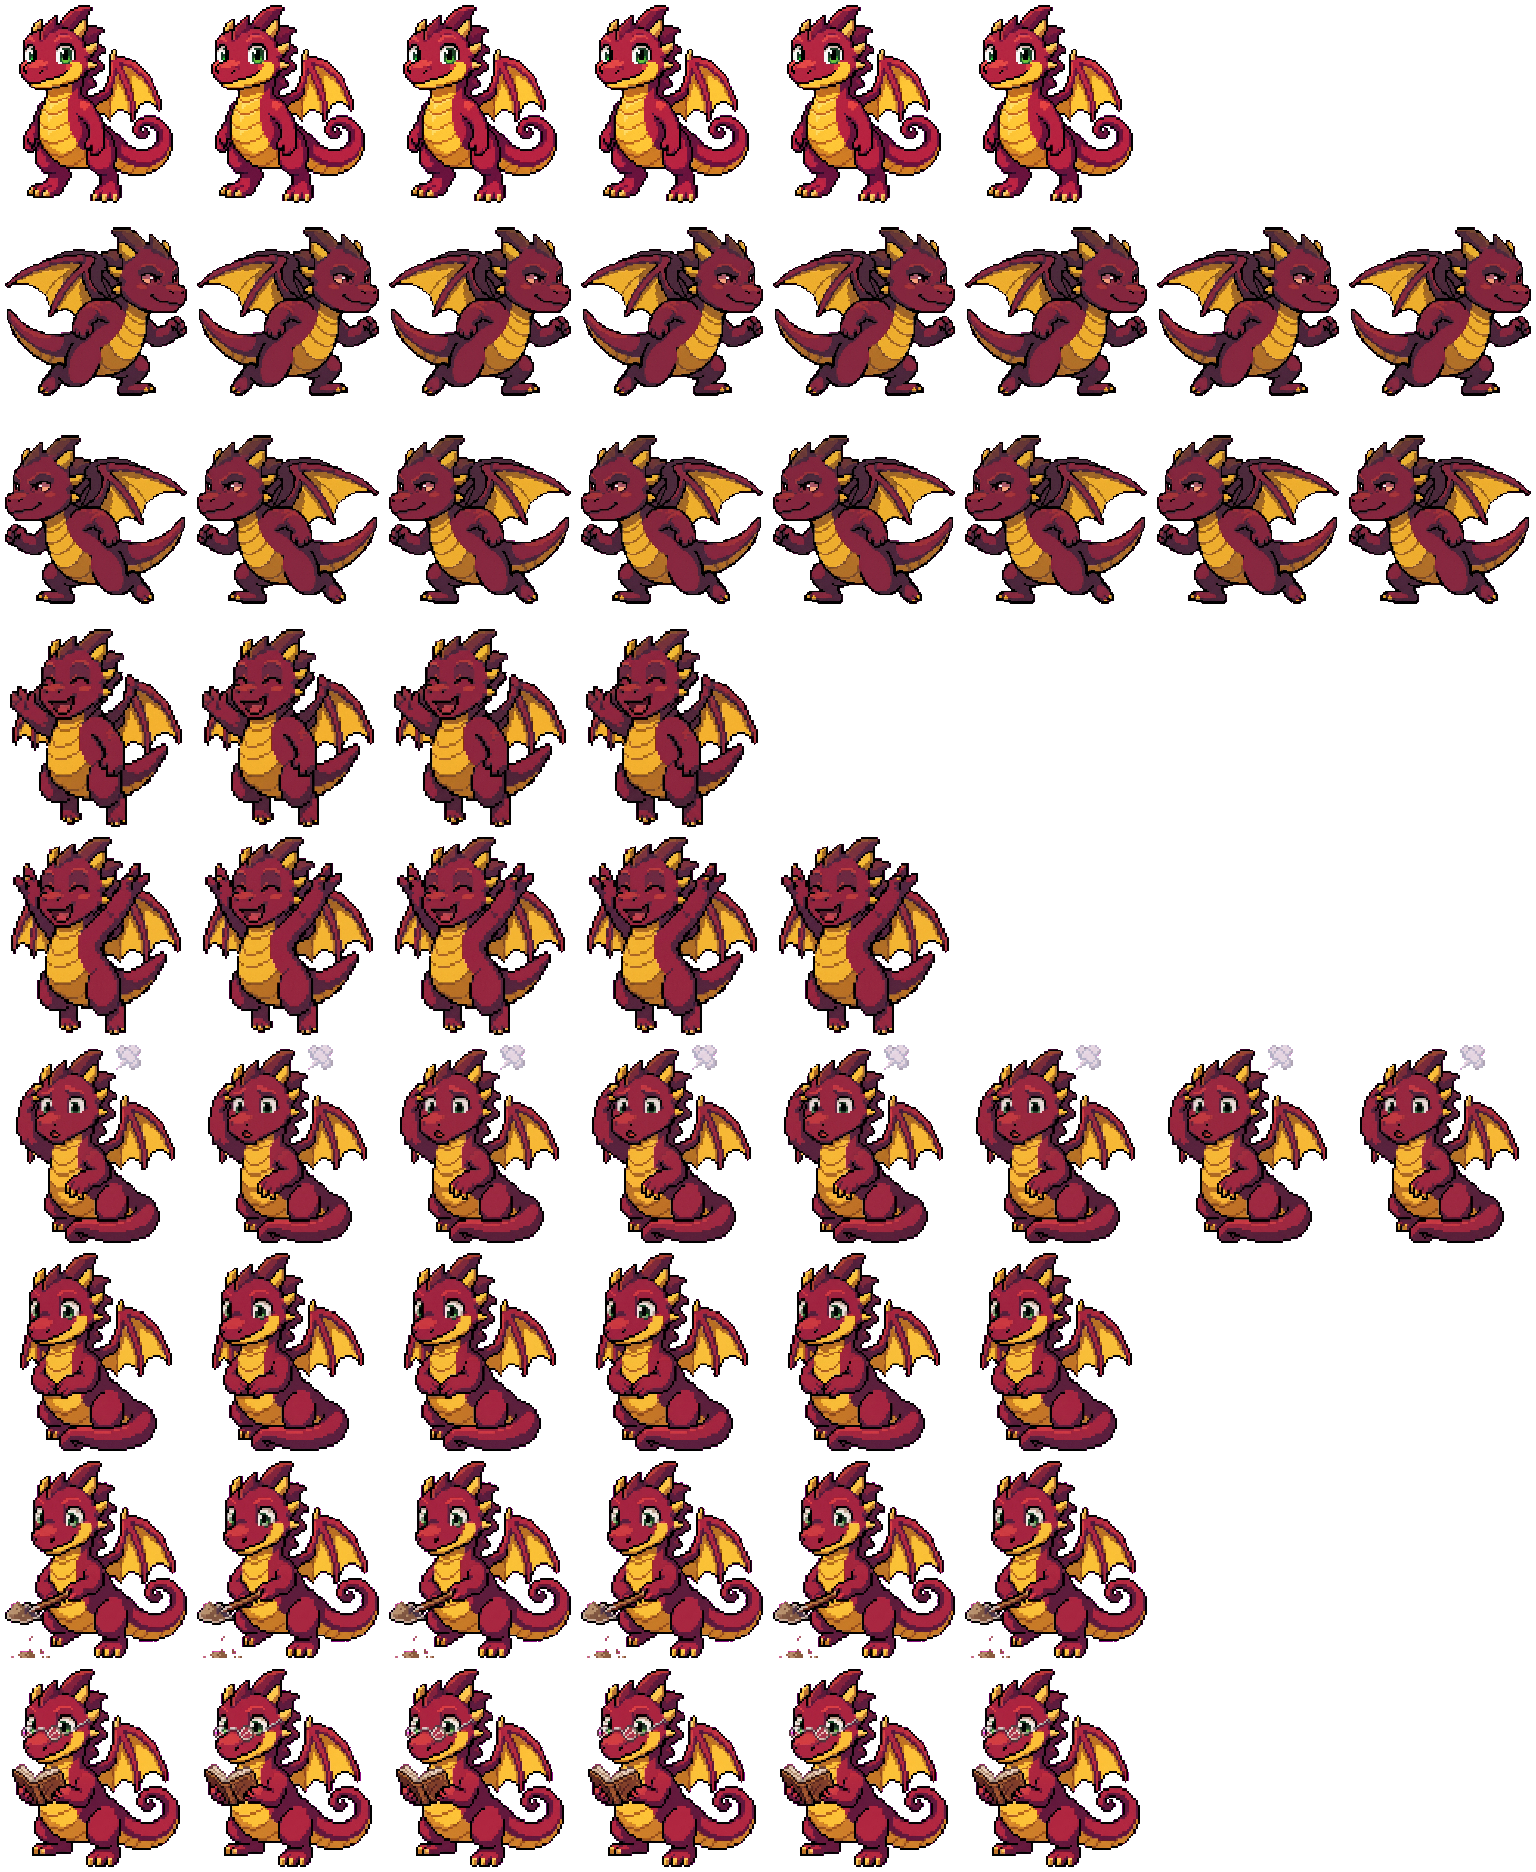
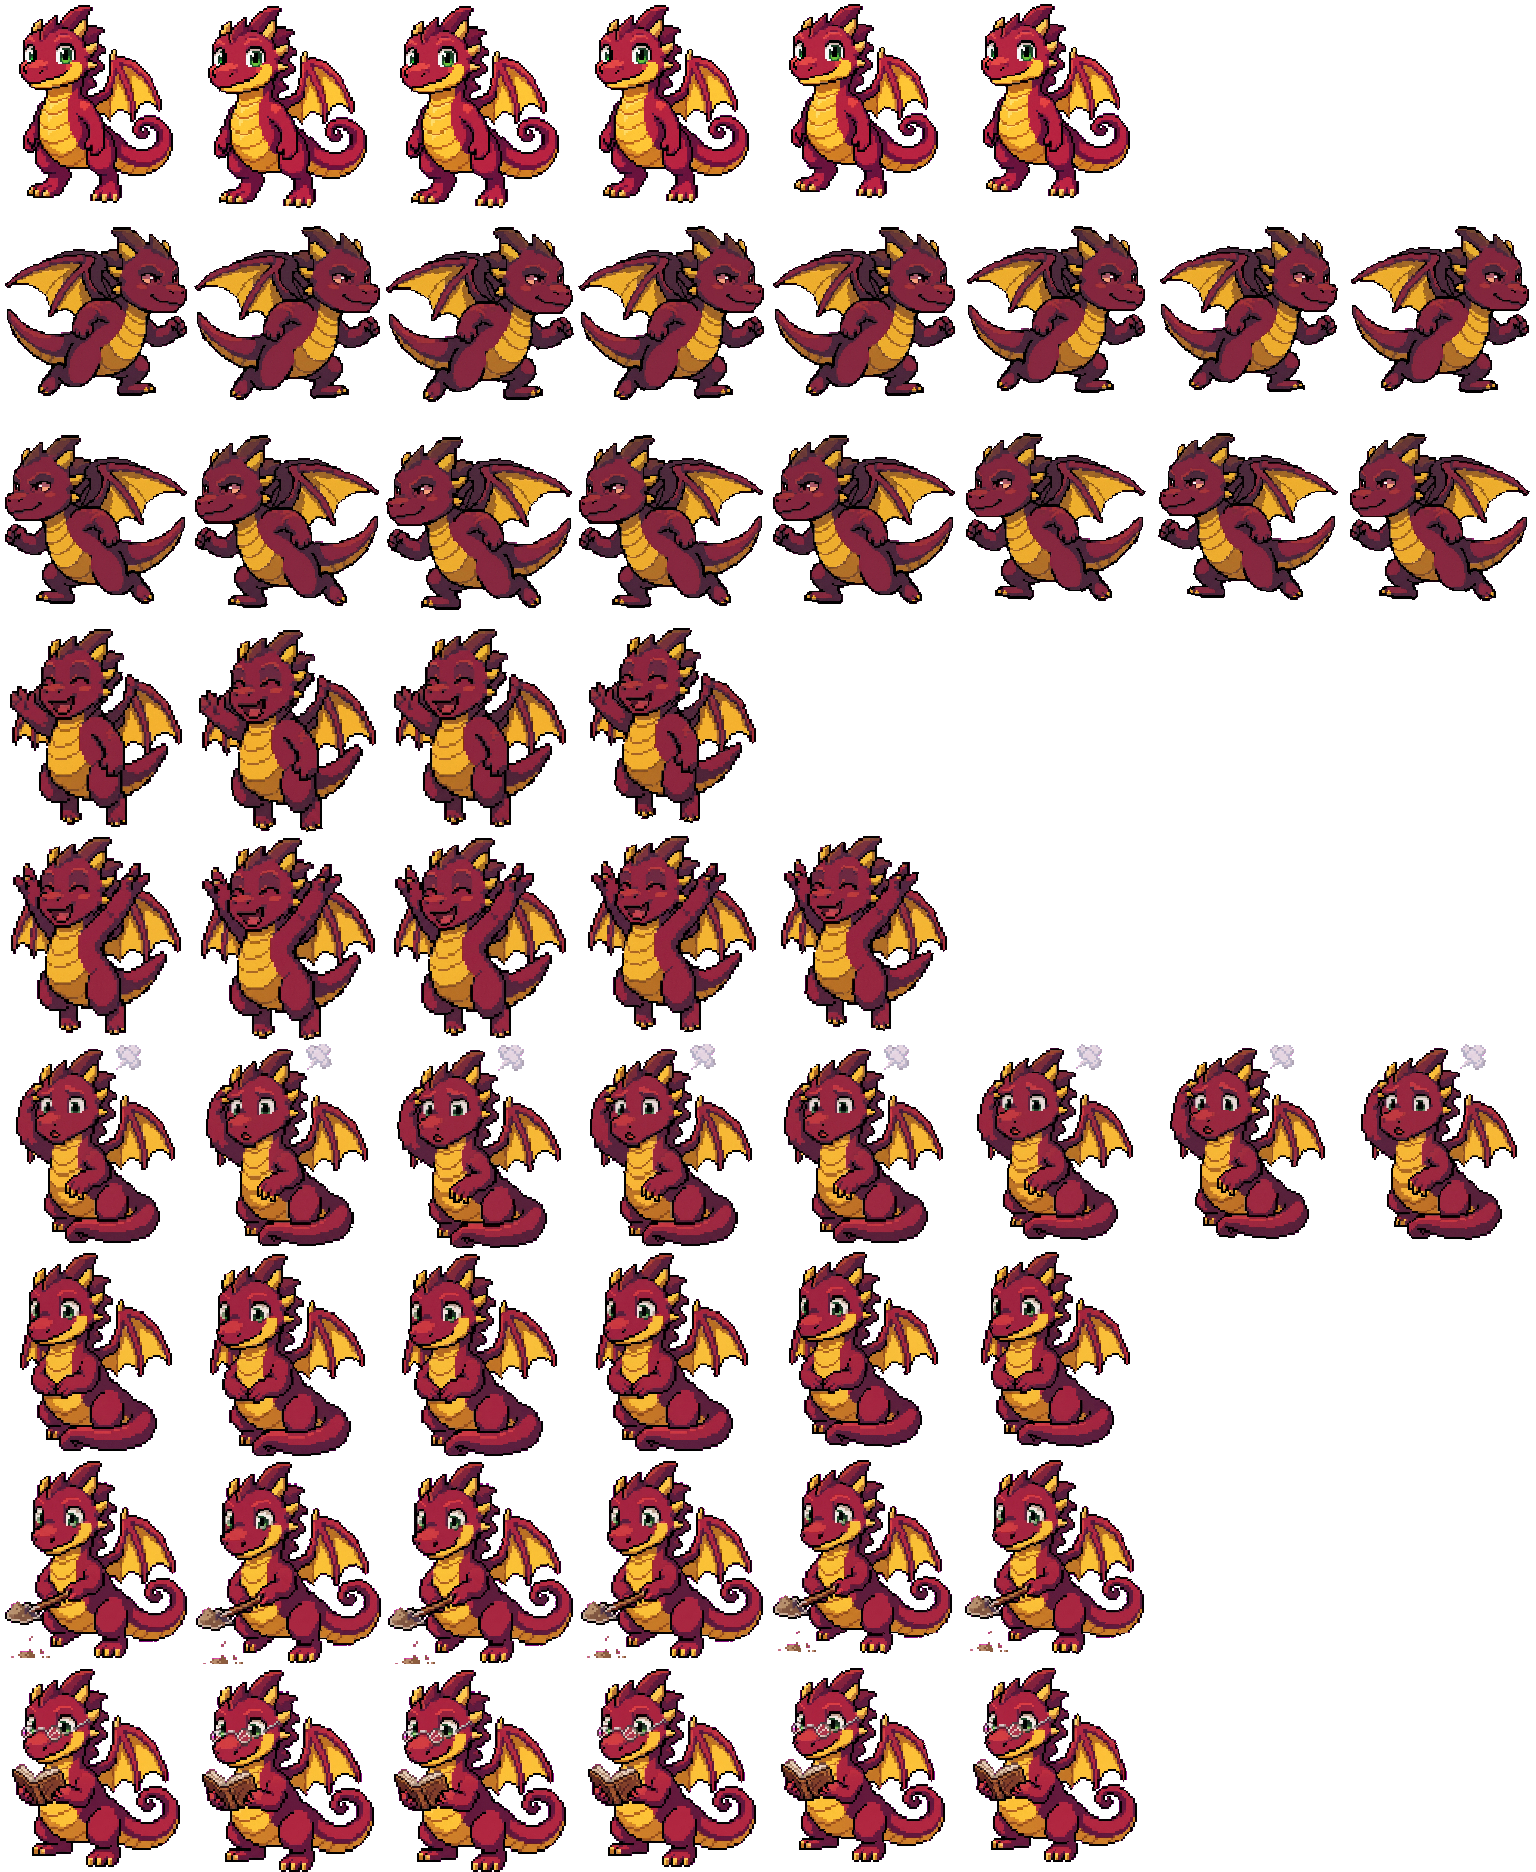
fix(phase4): actually animate atlas rows instead of repeating one cell
build_frames_by_state() built each row as [cell] * row_counts[row] —
list repetition of the same Image object, not distinct copies. Confirmed
via SHA-256: every one of the 9 rows had exactly 1 unique cell hash, so
Hermes rendered a frozen pose per state despite validate_atlas() passing
(it checks geometry/occupancy, not cross-column content).

Add _vary(cell, i, n): a deterministic sine-phase bob/tilt/breathing-scale
transform applied to a copy of the base cell per column (NEAREST resample
throughout, matching atlas._fit_to_cell's pixel-art-safe choice). Column 0
stays byte-identical to the approved keyframe. No new image generation.

Rebuilt + re-validated (ok:true, unchanged), reinstalled in the isolated
HERMES_HOME test profile, and re-hashed the on-disk spritesheet.webp: all
9 rows now show 3-5 unique hashes instead of 1. Real ~/.hermes verified
untouched (config.yaml md5/mtime and pets/ contents identical before and
after). Documented in docs/phase_results/PHASE_4_RESULT.md.

Changed region(s): [[0.125, 0.0, 0.625, 1.0], [0.5, 0.5577, 1.0, 1.0], [0.5, 0.0, 1.0, 0.3408]]

diff --git a/scripts/full_atlas.py b/scripts/full_atlas.py
@@ -7,14 +7,19 @@ and per-state frame counts, and ``mirror_frames`` is Hermes's own documented
 mechanism for deriving ``running-left`` from ``running-right`` (atlas.py's own
 docstring: "Used to derive running-left from an approved running-right row").
 
-This project has one static pose per state (no animation), so each state's
-single processed 192x208 cell is repeated across that row's real frame count
-(per ``ROW_SPECS``) -- same "steady repeat plays back as held still" approach
-``scripts/build_phase1_test_pet.py`` used for a 3-state subset in Phase 1.
+This project has one static pose per state (no keyframed animation), so each
+state's single processed 192x208 cell is turned into that row's real frame
+count (per ``ROW_SPECS``) via ``_vary()``: a deterministic sine-driven bob +
+tilt + breathing-scale applied to a copy of the base cell per column. Naively
+repeating the *same* image reference/pixels across a row (an earlier version
+of this module did exactly that) produces a row where every cell hashes
+identically -- Hermes's renderer then has nothing to animate and the state
+looks frozen even though ``validate_atlas()`` reports it as fully filled.
 """
 
 from __future__ import annotations
 
+import math
 import sys
 from pathlib import Path
 
@@ -61,8 +66,48 @@ def derive_running_left() -> Image.Image:
     return mirrored[0]
 
 
+# Amplitude of the deterministic per-column variation. Small on purpose: this
+# is a subtle idle-style bob/breathe, not a new hand-drawn animation.
+_BOB_PX = 3
+_TILT_DEG = 1.5
+_SCALE_DELTA = 0.02
+
+
+def _vary(cell: Image.Image, i: int, n: int) -> Image.Image:
+    """Return a distinct copy of *cell* for column *i* of *n*.
+
+    Column 0 stays byte-identical to the base keyframe -- it's the approved
+    reference pose. Every other column gets the same deterministic sine-phase
+    nudge (vertical bob, slight tilt, slight scale) so a row plays back as a
+    gentle breathing/bobbing loop instead of a frozen repeat. Uses NEAREST
+    resampling throughout to match ``atlas._fit_to_cell``'s pixel-art-safe
+    resample choice -- LANCZOS/BILINEAR would blur the hard pixel-art edges.
+    """
+    if i == 0 or n <= 1:
+        return cell.copy()
+
+    phase = 2 * math.pi * i / n
+    dy = round(_BOB_PX * math.sin(phase))
+    angle = _TILT_DEG * math.sin(phase)
+    scale = 1.0 + _SCALE_DELTA * math.sin(phase)
+
+    w, h = cell.size
+    rotated = cell.rotate(angle, resample=Image.Resampling.NEAREST, fillcolor=(0, 0, 0, 0))
+    sw, sh = max(1, round(w * scale)), max(1, round(h * scale))
+    scaled = rotated.resize((sw, sh), Image.Resampling.NEAREST) if (sw, sh) != (w, h) else rotated
+
+    out = Image.new("RGBA", (w, h), (0, 0, 0, 0))
+    out.alpha_composite(scaled, ((w - sw) // 2, (h - sh) // 2 + dy))
+    return out
+
+
 def build_frames_by_state() -> dict[str, list[Image.Image]]:
-    """One state's single pose repeated across that row's real frame count."""
+    """Each state's base pose expanded into that row's real frame count.
+
+    Column 0 is the untouched, approved keyframe; columns 1..n-1 are
+    deterministic variations (``_vary``) of a *copy* of it -- never the same
+    object/pixels repeated, so the row actually animates on playback.
+    """
     row_counts = {state: count for state, _row, count in atlas.ROW_SPECS}
 
     cells_by_row: dict[str, Image.Image] = {
@@ -70,7 +115,10 @@ def build_frames_by_state() -> dict[str, list[Image.Image]]:
     }
     cells_by_row["running-left"] = derive_running_left()
 
-    return {row: [cell] * row_counts[row] for row, cell in cells_by_row.items()}
+    return {
+        row: [_vary(cell, i, row_counts[row]) for i in range(row_counts[row])]
+        for row, cell in cells_by_row.items()
+    }
 
 
 def build_atlas_image() -> Image.Image:

diff --git a/docs/phase_results/PHASE_4_RESULT.md b/docs/phase_results/PHASE_4_RESULT.md
@@ -386,6 +386,147 @@ real (no una decisión unilateral de este agente):
 > avanzar a la Fase 5 (instalación en el perfil real `~/.hermes`, que se
 > despacha por separado)?
 
+## Correction (post-merge-review): rows were not actually animated
+
+A later hash-level review of the installed `spritesheet.webp` found that
+`build_frames_by_state()` (the code documented in §1 above) built each row as
+`[cell] * row_counts[row]` — Python list-repetition of the **same** `Image`
+object/pixels, not distinct copies. SHA-256 over every cell in the installed
+atlas confirmed it: **each of the 9 rows had exactly 1 unique hash across all
+its columns.** The atlas passed `validate_atlas()` (geometry/occupancy/
+residue checks, which don't compare cell content across columns) and looked
+correct in the static contact sheet (§3), but on a real Hermes render every
+state was a frozen single pose — nothing animated, contrary to the phase's
+own framing of "steady repeat plays back as held still."
+
+### What changed
+
+`scripts/full_atlas.py` (now 131 lines, still comfortably inside AGENTS.md's
+100–300 line module budget):
+
+- Added `_vary(cell, i, n) -> Image.Image`: for column `i` of `n`, returns a
+  **copy** of `cell` (never the same object) with a deterministic
+  sine-phase nudge — vertical bob (±3px), tilt (±1.5°), and breathing scale
+  (±2%) — so a row plays back as a subtle bob/breathe loop instead of a
+  frozen repeat. Column `i=0` is returned untouched (`cell.copy()`, no
+  transform) so the approved reference keyframe pose is preserved exactly.
+  Uses `Image.Resampling.NEAREST` for both the rotation and the resize step,
+  matching `atlas._fit_to_cell`'s own resample choice (documented there as
+  the pixel-art-safe one — LANCZOS/BILINEAR would blur the hard sprite
+  edges).
+- `build_frames_by_state()` now calls `_vary(cell, i, row_counts[row])` per
+  column instead of `[cell] * row_counts[row]`. `running-left` is unaffected
+  by this call site — it still derives from `mirror_frames()` on the base
+  `running-right` cell (§0, untouched) — and gets its own `_vary` pass with
+  the same `n`/phase function as `running-right`, so both directional rows
+  bob in the same rhythm.
+- Zero new images generated, zero API/model calls (`AGENTS.md`'s cost
+  discipline: "transform" ranks above "generate" in image-work priority, and
+  this is a pure deterministic Pillow transform of already-approved pixels).
+
+### Re-validation after the fix
+
+```text
+$ venv/bin/python3 scripts/build_full_atlas.py
+...
+{
+  "ok": true, "width": 1536, "height": 1872,
+  "errors": [], "warnings": [],
+  "filled_states": ["idle","running-right","running-left","waving",
+    "jumping","failed","waiting","running","review"]
+}
+```
+
+`validate_atlas()` still passes clean — the fix only touches pixel content
+within already-valid cells, not atlas geometry.
+
+### Hash evidence: before vs. after
+
+| state | count | unique hashes BEFORE | unique hashes AFTER |
+|---|---|---|---|
+| idle | 6 | 1 | 3 |
+| running-right | 8 | 1 | 5 |
+| running-left | 8 | 1 | 5 |
+| waving | 4 | 1 | 3 |
+| jumping | 5 | 1 | 5 |
+| failed | 8 | 1 | 5 |
+| waiting | 6 | 1 | 3 |
+| running | 6 | 1 | 3 |
+| review | 6 | 1 | 3 |
+
+Every row now has more than one distinct cell hash (raw per-cell hashes in
+`assets/keyframes/atlas_full_cell_hashes.json`). Rows with an even frame
+count show a symmetric pattern (e.g. 6 frames → 3 unique hashes, in an
+up/up/neutral/down/down shape) because `sin(2πi/n)` naturally repeats
+magnitudes at symmetric phase points — this is the expected shape of a
+sine-sampled bob/breathe cycle at low frame counts, not a partial fix; no row
+regressed to 1.
+
+Reinstalled into the isolated profile and re-hashed the actual on-disk
+`spritesheet.webp` (not just the in-memory atlas) to confirm the fix survives
+the real install path:
+
+```text
+$ HERMES_HOME=/home/chegusan/.hermes-jorgito-test venv/bin/python3 scripts/install_full_atlas_pet.py
+validate_atlas(): ok=True, filled_states=[idle, running-right, running-left,
+  waving, jumping, failed, waiting, running, review]
+registered pet 'jorgito' -> /home/chegusan/.hermes-jorgito-test/pets/jorgito/spritesheet.webp
+  exists=True generated=True
+$ HERMES_HOME=/home/chegusan/.hermes-jorgito-test hermes pets select jorgito
+✓ active pet set to Jorgito
+$ HERMES_HOME=/home/chegusan/.hermes-jorgito-test hermes pets doctor
+  ✓ ready  (active: jorgito)
+```
+
+The hash table above was computed against this reinstalled
+`spritesheet.webp`, not the pre-install `atlas_full.png`.
+
+### Visual evidence: consecutive frames side by side
+
+`assets/keyframes/terminal_render_phase4/frame_strip_{idle,running-right,
+jumping}.png` — each state's real per-column cells (as they land in the
+atlas) laid out left→right at 2x, NEAREST-scaled, with column labels. Visual
+inspection of `frame_strip_running-right.png` (the clearest case, 8 columns):
+the dragon visibly bobs up/down by a couple of pixels and tilts slightly
+across columns while identity, colors, and pixel-art edge sharpness are
+unchanged from column 0 — no blur, no chroma residue, no silhouette
+distortion.
+
+### Real `~/.hermes` isolation re-check (same hard restriction as §7)
+
+| check | before this fix | after this fix |
+|---|---|---|
+| `~/.hermes/config.yaml` md5 | `66684dd3b378e4584ab08ab097024ed4` | `66684dd3b378e4584ab08ab097024ed4` (unchanged) |
+| `~/.hermes/config.yaml` mtime | `2026-08-15 10:38:33` | `2026-08-15 10:38:33` (unchanged) |
+| `~/.hermes/pets/` contents | empty | empty (unchanged) |
+
+All install/select/doctor calls during this correction used
+`HERMES_HOME=/home/chegusan/.hermes-jorgito-test` exclusively; nothing in
+`full_atlas.py`/`build_full_atlas.py`/`install_full_atlas_pet.py` touches
+`HERMES_HOME` or pet-store state outside that explicit env var.
+
+### Files changed (this correction)
+
+- Modified: `scripts/full_atlas.py` — added `_vary()`, updated
+  `build_frames_by_state()` to call it per column instead of list-repeating
+  one cell; updated the module docstring (it previously described the exact
+  behavior that caused this bug).
+- Modified: `assets/keyframes/atlas_full.png` — rebuilt with varied cells.
+- Added: `assets/keyframes/atlas_full_cell_hashes.json` — per-state,
+  per-column SHA-256 hashes of the reinstalled `spritesheet.webp` (the
+  before/after evidence above).
+- Added: `assets/keyframes/terminal_render_phase4/frame_strip_{idle,
+  running-right,jumping}.png` — consecutive-frame visual evidence.
+- Not modified: `assets/keyframes/atlas_full_validation.json`,
+  `assets/keyframes/contact_sheet_phase4_full.png`,
+  `assets/keyframes/terminal_render_phase4/contact_sheet_terminal_phase4.png`
+  — all three are keyed off column 0 only (the validator's per-row
+  occupancy check, and both contact sheets' single reference pose per
+  state), which `_vary()` leaves byte-identical to the pre-fix keyframe, so
+  they did not change.
+- Not touched: `/home/chegusan/.hermes/` (real profile) — verified
+  unchanged before and after (table above).
+
 ## Decision
 
 continue
